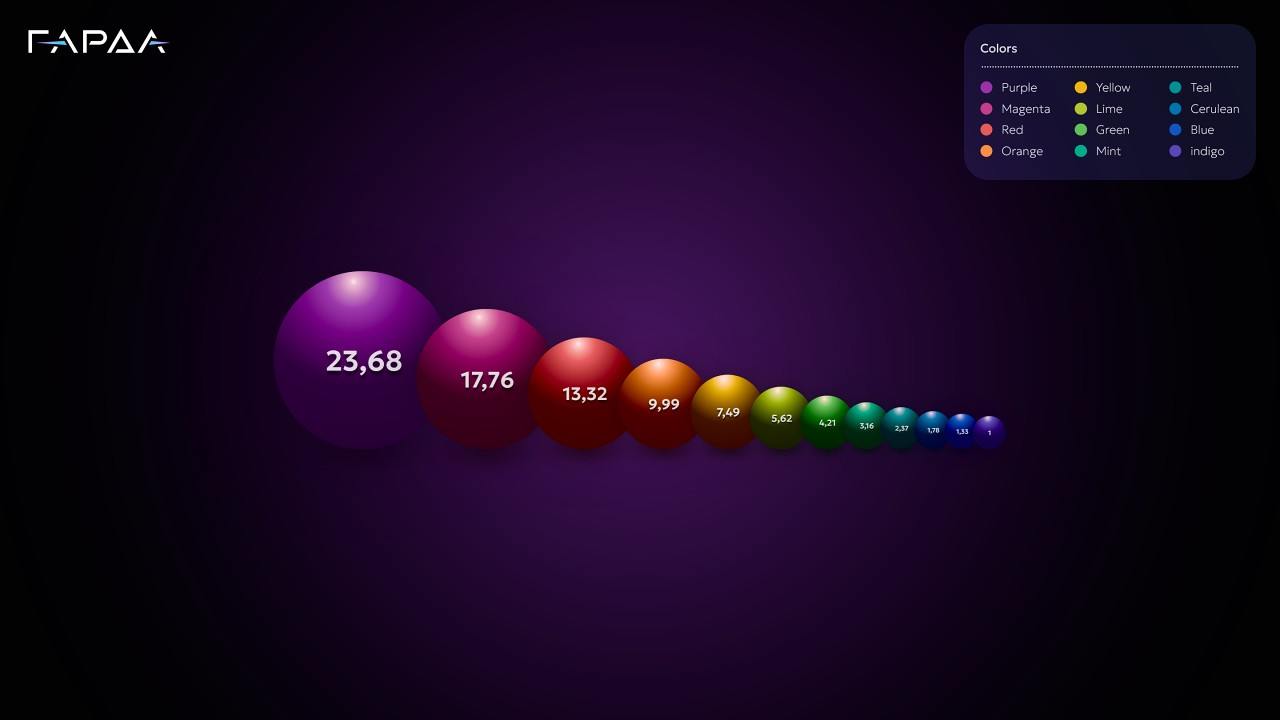
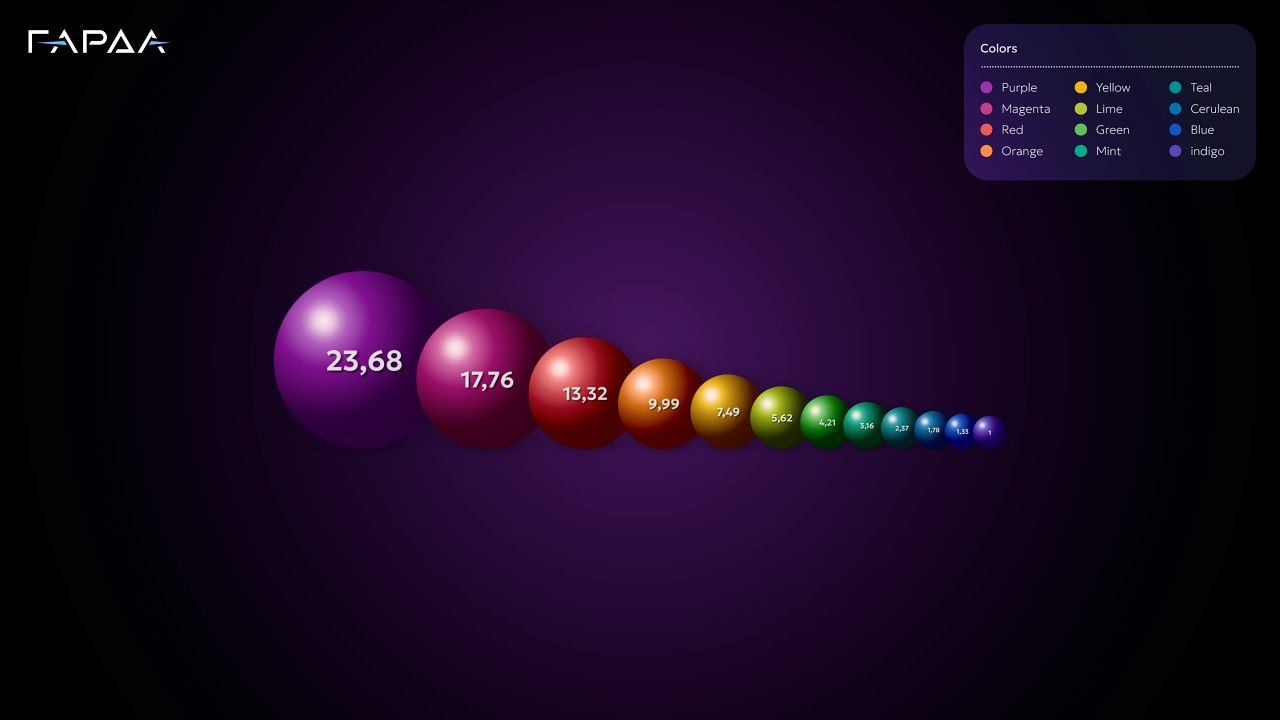
Updates

Changed region(s): [[0.1875, 0.3667, 0.7812, 0.6417], [0.75, 0.1833, 0.7812, 0.2444]]

diff --git a/index.html b/index.html
@@ -15,7 +15,7 @@
 	<meta property="og:url"
 				content="https://nazhdaque.github.io/spheres/">
 	<meta property="og:image"
-				content="preview.jpg">
+				content="https://nazhdaque.github.io/spheres/preview.jpg">
 	<meta property="og:image:width"
 				content="1280">
 	<meta property="og:image:height"
@@ -30,7 +30,7 @@
 	<meta name="twitter:url"
 				content="https://nazhdaque.github.io/spheres/">
 	<meta name="twitter:image"
-				content="preview.jpg">
+				content="https://nazhdaque.github.io/spheres/preview.jpg">
 	<!-- // -->
 	<meta name="description"
 				content="Infographic">
